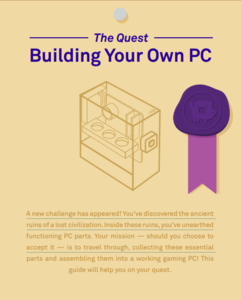
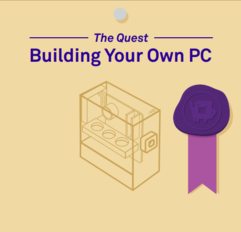
8 days till done

Changed region(s): [[0.0871, 0.0302, 0.9876, 0.9353]]

diff --git a/frontcomposer/src/app/pcbuilder/adventurebuild/adventurebuild.component.html b/frontcomposer/src/app/pcbuilder/adventurebuild/adventurebuild.component.html
@@ -2,7 +2,7 @@
 <p-stepper>
     <p-stepperPanel header="Start your adventure!">
         <ng-template pTemplate="content" let-nextCallback="nextCallback" let-index="index">
-            <div class="flex flex-column h-12rem">
+            <div class="flex flex-column h-15rem">
                 <div
                     class="border-2  surface-border border-round surface-ground flex-auto flex justify-content-center align-items-center font-medium">
                     A new challenge has appeared! You've discovered the ancient
@@ -12,11 +12,13 @@
                     functioning Computer parts.
                     <br />
                     Your mission — should you choose to
-                    accept it — is to travel through, collecting these essential
+                    accept it — is to travel through, 
+                    <br/>
+                    collecting these essential
                     parts and assembling them into a working gaming PC!
                     <br />
                     This guide will help you on your quest.
-                    
+                    <img src="assets/adventure/StartQuest.png">
                 </div>
             </div>
             <div class="flex py-4">

diff --git a/frontcomposer/src/app/prompt/prompt.component.ts b/frontcomposer/src/app/prompt/prompt.component.ts
@@ -1,5 +1,7 @@
 import { Component, OnInit } from '@angular/core';
 import { ActivatedRoute } from '@angular/router';
+import { SharedService } from '../services/shared.service';
+
 
 @Component({
   selector: 'app-prompt',
@@ -9,7 +11,7 @@ import { ActivatedRoute } from '@angular/router';
 
 export class PromptComponent implements OnInit {
   promptValue: string = '';
-  constructor(private route: ActivatedRoute) {}
+  constructor(private route: ActivatedRoute, private service: SharedService) {}
   ngOnInit() {
     this.route.queryParams.subscribe(params => {
       this.promptValue = params['prompt'];
@@ -36,9 +38,6 @@ export class PromptComponent implements OnInit {
     } 
     else if (matchingKeywords.includes('cheap') && matchingKeywords.includes('gaming')) {
       console.log('Both "cheap" and "gaming" exist');
-    }
-    else if (matchingKeywords.includes('budget') && matchingKeywords.includes('cheap')) {
-      console.log('Both "budget" and "cheap" exist');
     }
     else if (matchingKeywords.includes('extreme') && matchingKeywords.includes('gaming')) {
       console.log('Both "extreme" and "gaming" exist');

diff --git a/frontcomposer/src/app/home/home.component.html b/frontcomposer/src/app/home/home.component.html
@@ -16,14 +16,18 @@
                 <br/>
                 <a *ngIf="!isLoggedIn()" routerLink="/login" routerLinkActive="active-link"><button pButton pRipple
                         pTooltip="Login to your account!" label="Login here!" class="p-button-success"></button></a>
+                <a *ngIf="isLoggedIn()" routerLink="/partspicker" routerLinkActive="active-link"><button pButton pRipple
+                    pTooltip="Spec out a desktop!" label="Compose a machine"class="p-button-success"></button></a>
             </section>
         </div>
         <div class="col-12 md:col-6 overflow-hidden">
-            <img src="assets/adventure/StartQuest.png" alt="Image" class="md:ml-auto block"
+            <img src="assets/backgrounds/background1.png" alt="Image" class="md:ml-auto block"
                 style="clip-path: polygon(8% 0, 100% 0%, 100% 100%, 0 100%)">
         </div>
     </div>
 
+    <h3> Try out our prompt-to-build system!</h3>
+    
     <div class="card flex justify-content-center">
         <form [formGroup]="promptForm" (ngSubmit)="onSubmit()">
             <div class="flex form-group p-float-label">

diff --git a/frontcomposer/src/app/about/about.component.html b/frontcomposer/src/app/about/about.component.html
@@ -4,8 +4,9 @@
         <h1 class="leading-relaxed text-lg">Hello there, Welcome to PC-omposer! Where you can create your desktop computer, like a music composer.</h1>
         <p> This is a final year project that is done by yours truly. This system is a very basic web-application that uses AngularJs as the frontend and Django as the backend.</p>
         <p> The database that is used for this project is PostgreSQL. </p>
-        <img src="/assets/about/myles.jpg">
-        <h2 class="text-gray-900 font-medium title-font tracking-wider text-sm">Soh Myles</h2>
+        <p> This project was done possible with the passion for computer hardware and web development. </p>
+
+        <h2 class="text-gray-900 font-mediu-bold title-font tracking-wider text-sm">Soh Myles</h2>
         <p class="text-gray-500">PC-omposer Full Stack Developer</p>
       </div>
     </div>

diff --git a/frontcomposer/src/app/dashboard/dashboard.component.html b/frontcomposer/src/app/dashboard/dashboard.component.html
@@ -2,13 +2,14 @@
     <p-tabMenu [model]="items" [activeItem]="activeItem"></p-tabMenu>
 </div>
 
+
 <div class="surface-ground px-4 py-5 md:px-6 lg:px-8">
     <div class="grid">
         <div class="col-12 md:col-6 lg:col-3">
             <div class="surface-card shadow-2 p-3 border-round">
                 <div class="flex justify-content-between mb-3">
                     <div>
-                        <span class="block text-500 font-medium mb-3">Orders</span>
+                        <span class="block text-500 font-medium mb-3">Likes</span>
                         <div class="text-900 font-medium text-xl">152</div>
                     </div>
                     <div class="flex align-items-center justify-content-center bg-blue-100 border-round" style="width:2.5rem;height:2.5rem">
@@ -66,3 +67,4 @@
         </div>
     </div>
 </div>
+

diff --git a/frontcomposer/src/app/dashboard/dashboard.component.ts b/frontcomposer/src/app/dashboard/dashboard.component.ts
@@ -8,7 +8,6 @@ import { MenuItem } from 'primeng/api';
 })
 export class DashboardComponent {
   items: MenuItem[] | undefined;
-
   activeItem: MenuItem | undefined;
   ngOnInit() {
     this.items = [

diff --git a/frontcomposer/src/app/prompt/prompt.component.html b/frontcomposer/src/app/prompt/prompt.component.html
@@ -1,3 +1,4 @@
 <div> 
-    <p>{{promptValue}}</p>
+    <p>Here is a computer generated from your prompt: "{{promptValue}}"</p>
+    
 </div>

diff --git a/backpcomposer/myapi/views.py b/backpcomposer/myapi/views.py
@@ -1,5 +1,5 @@
 import json
-from django.shortcuts import render
+from django.shortcuts import get_object_or_404, render
 from django.contrib.auth import authenticate, login, logout
 from django.http import JsonResponse
 from .models import *
@@ -128,10 +128,6 @@ class caseViewset(viewsets.ModelViewSet):
     queryset = Case.objects.all()
     serializer_class = CaseSerializer
 
-class computerViewset(viewsets.ModelViewSet):
-    queryset = Computer.objects.all()
-    serializer_class = ComputerSerializer
-
 class storageViewset(viewsets.ModelViewSet):
     queryset = Storage.objects.all()
     serializer_class = StorageSerializer
@@ -140,4 +136,21 @@ class powerSupplyViewset(viewsets.ModelViewSet):
     queryset = PowerSupply.objects.all()
     serializer_class = Power_SupplySerializer
 
-
+class computerViewset(viewsets.ModelViewSet):
+    queryset = Computer.objects.all()
+    serializer_class = ComputerSerializer
+    
+    def test():
+        print(queryset)
+        queryset = Computer.objects.all().values()
+        for test in queryset:
+            cpu = CPU.objects.get(pk=test['cpu_name_id'])
+            motherboard = Motherboard.objects.get(pk=test['motherboard_id'])
+            ram = RAM.objects.get(pk=test['ram_id'])
+            storage = Storage.objects.get(pk=test['storage_id'])
+            gpu = GPU.objects.get(pk=test['gpu_name_id'])
+            power_supply = PowerSupply.objects.get(pk=test['power_supply_id'])
+            case = Case.objects.get(pk=test['case_id'])
+            user = User.objects.get(pk=test['user_id'])
+        
+        print(cpu, motherboard, ram, storage, gpu, power_supply, case)

diff --git a/backpcomposer/myapi/serializer.py b/backpcomposer/myapi/serializer.py
@@ -1,12 +1,6 @@
 from rest_framework import serializers
 from myapi.models import *
-
-class ComputerSerializer(serializers.HyperlinkedModelSerializer):
-    class Meta:
-        model = Computer
-        fields = ('cpu_name','motherboard','ram','storage'
-                  ,'gpu_name','power_supply','case', 'user', 'likes')
-        
+   
 class userSerializer(serializers.HyperlinkedModelSerializer):
     class Meta:
         model=User
@@ -46,3 +40,9 @@ class CaseSerializer(serializers.HyperlinkedModelSerializer):
     class Meta:
         model=Case
         fields=('case_name','case_brand', 'case_size')
+
+class ComputerSerializer(serializers.HyperlinkedModelSerializer):
+    class Meta:
+        model = Computer
+        fields = ('cpu_name','motherboard','ram','storage'
+                  ,'gpu_name','power_supply','case', 'user', 'likes')

diff --git a/backpcomposer/myapi/models.py b/backpcomposer/myapi/models.py
@@ -77,3 +77,4 @@ class Computer(models.Model):
     likes = models.IntegerField()
 
 
+
